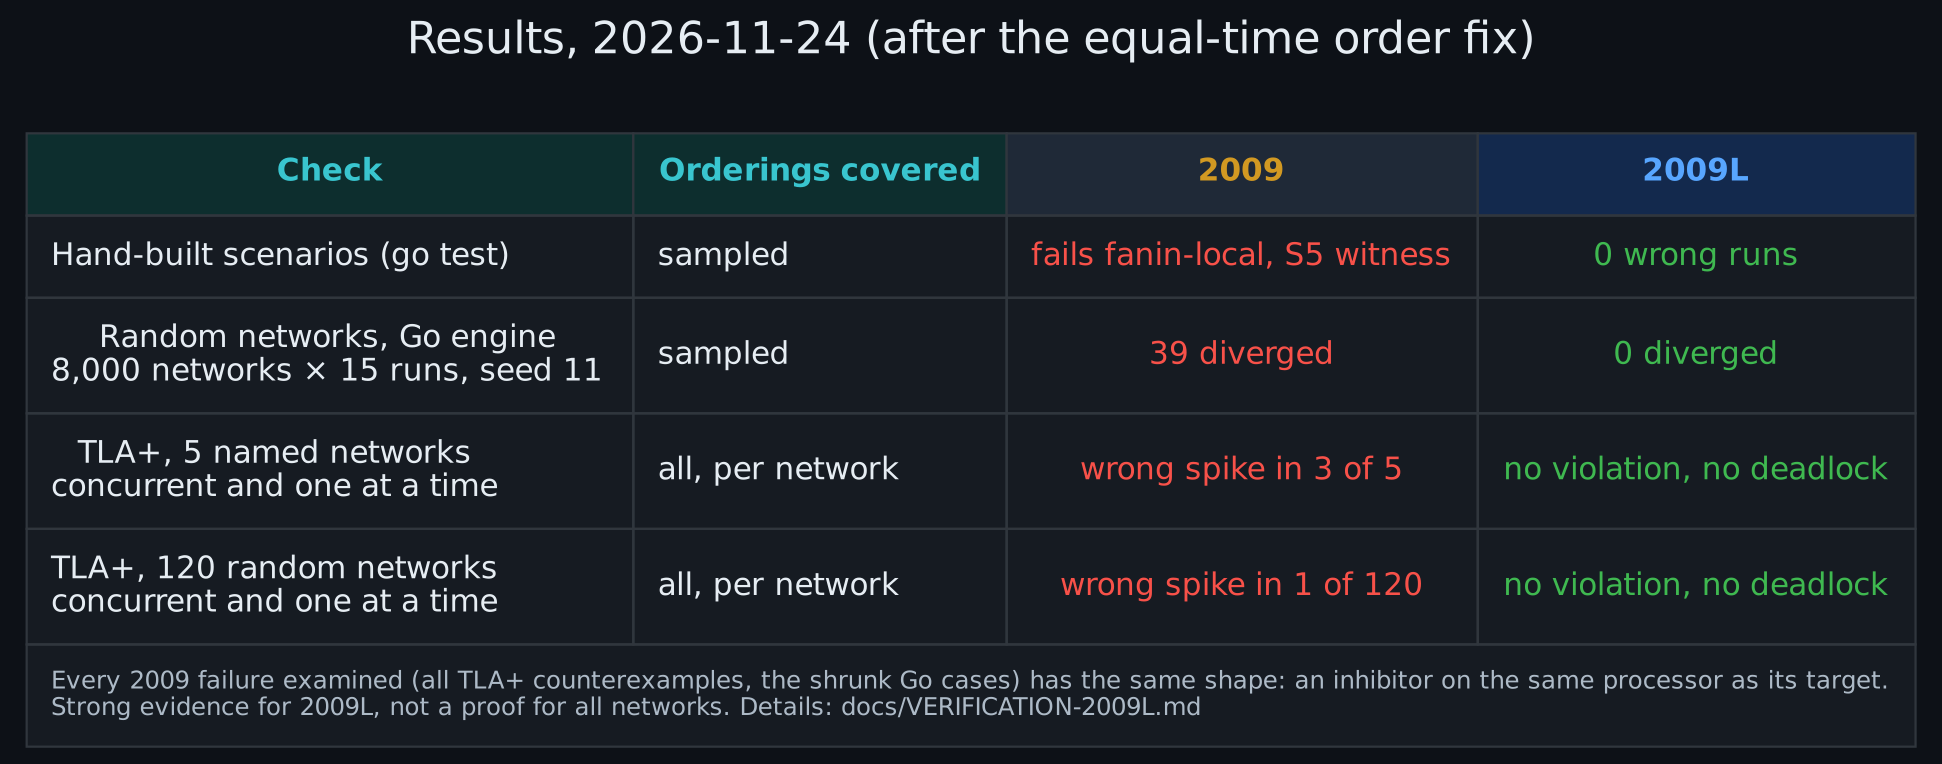
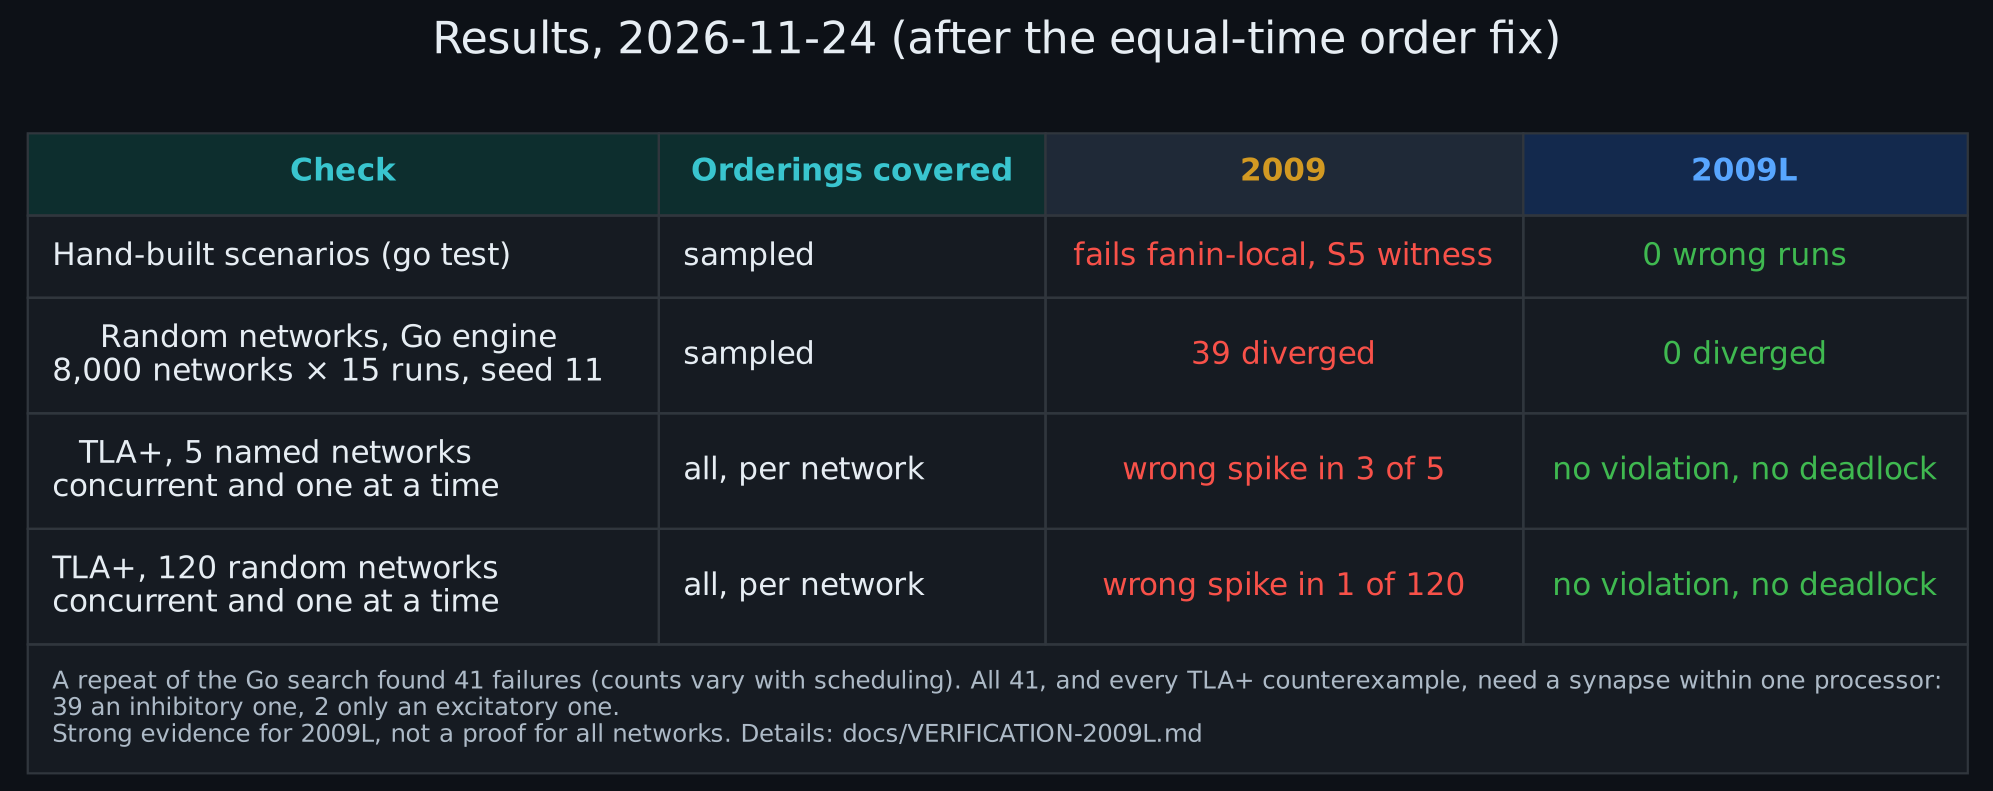
Classify every 2009 failure: the defect is any late local impact
TestFuzzClassify2009 reran the 8,000-network search under 2009 and shrank
all 41 failures. Every one needs a synapse within one processor; none is
explained by remote traffic. 39 need a local inhibitory synapse, but 2
need only a local excitatory one: the late local impact is applied after a
later-stamped event, so the neuron fires at the wrong time or twice.
2009L was correct on all 41 shrunk cases.

Updates the defect report, the verification report (new section 2.2),
the README findings and roadmap (1.1 done), and the results diagram.

Claude-Session: https://claude.ai/code/session_01HRry5APEXCQY2meDA7M2uS

diff --git a/README.md b/README.md
@@ -22,7 +22,7 @@ DAMNED (Mouraud, Puzenat and Paugam-Moisy) simulates spiking neural networks acr
 ## Findings
 
 1. **The 2006 guard is unsound.** Reproduced: it commits spikes that should have been cancelled (`cancel`: 156 of 300 runs wrong on 2026-11-24).
-2. **The 2009 guard, as reconstructed here, is also unsound.** Its computation gate checks only *peer* bounds and never this processor's own un-emitted spikes. A four-neuron counterexample (`fanin-local`: inhibitor on the same processor as its target, excitation remote) produces a spike the sequential simulation does not. Details: [`docs/DEFECT-local-straggler.md`](docs/DEFECT-local-straggler.md).
+2. **The 2009 guard, as reconstructed here, is also unsound.** Its computation gate checks only *peer* bounds and never this processor's own un-emitted spikes. A four-neuron counterexample (`fanin-local`: inhibitor on the same processor as its target, excitation remote) produces a spike the sequential simulation does not. The late local impact can also be excitatory, giving a spike at the wrong time or a duplicate: of 41 failures in a random search, 39 involved a local inhibitory synapse and 2 only a local excitatory one. Details: [`docs/DEFECT-local-straggler.md`](docs/DEFECT-local-straggler.md).
 3. **A corrected guard, `2009L`, adds the missing local bound.** It has had zero wrong runs in every test: the hand-built scenarios, a random-network search, and a TLA+ model checked over every interleaving of a set of small networks. That is strong evidence, not a proof for all networks. Details: [`docs/VERIFICATION-2009L.md`](docs/VERIFICATION-2009L.md).
 4. **The built-in soundness flag misses this class of error.** It reported 0 in every `2009` failure. The spike-train comparison against the sequential simulation caught all of them, so that comparison is the correctness criterion here.
 5. **The original TLA+ model cannot see it; a new one can.** The original model's 2009 gate has the same blind spot, its exactness invariant is the same commit-time check as the flag, and it has no synaptic weights ([defect report, section 7](docs/DEFECT-local-straggler.md#7-consequences-for-the-tla-model)). A new model with real neurons, in [`formal-verification/weighted/`](formal-verification/weighted/), finds the 2009 failure, including when each processor computes one event at a time as the 2009 paper describes, and finds no violation under `2009L`.
@@ -287,7 +287,7 @@ Ordered so that each phase rests on the one before it: correctness first, becaus
 
 | # | Step | Why | Status |
 |---|---|---|---|
-| 1.1 | Classify all 39 `2009` failures from the long random search by shape | The claim that every failure is a local inhibitor rests so far on the cases examined (all TLA+ counterexamples, the shrunk Go cases), not on all 39 | Next |
+| 1.1 | Classify every `2009` failure from the long random search by shape | The claim that every failure is a local inhibitor rested only on the cases examined | **Done 2026-11-24:** all 41 need a local synapse; 39 a local inhibitory one, 2 only a local excitatory one. The defect is any late local impact ([report, section 2.2](docs/VERIFICATION-2009L.md#22-classifying-every-2009-failure)) |
 | 1.2 | Implement Algorithms 2 and 3 of the 2009 paper literally, as a fourth guard, and run every check against it | Settles whether the defect is in the published algorithm or only in this reconstruction ([verification report, section 1](docs/VERIFICATION-2009L.md#1-the-2009-paper)) | Next |
 | 1.3 | Extend the TLA+ model: stimuli arriving over time from Pr0, channels larger than 3 messages, liveness under fairness | Removes the three main simplifications behind the current TLC results | Open |
 | 1.4 | Prove `2009L` sound for all networks | Every result so far covers specific networks; a proof covers all of them. Either an inductive invariant checked with TLAPS or Apalache, or a written proof that nothing can arrive below the gate's horizon | Open |

diff --git a/docs/VERIFICATION-2009L.md b/docs/VERIFICATION-2009L.md
@@ -79,7 +79,35 @@ The same long run, repeated after the fix:
 | `2009` | 8,000 | 15 | **39** |
 | `2009L` | 8,000 | 15 | **0** |
 
-Same seed (11) and networks for both. The smallest `2009` case the shrinker returned from this run has the same shape as before: an inhibitor on the same processor as its target, with the excitation arriving at the same stamp.
+Same seed (11) and networks for both.
+
+### 2.2 Classifying every 2009 failure
+
+To check whether every `2009` failure has the local-inhibitor shape, `TestFuzzClassify2009` reran the same 8,000 networks under `2009`, shrank every failing one, and recorded which synapses the shrunk case still needs. A synapse is *local* if its source and target neurons are on the same processor. This run found 41 failures (39 in the run above; the count depends on scheduling). Full output: [`results/2026-11-24-classify-2009.txt`](results/2026-11-24-classify-2009.txt).
+
+| Synapses the shrunk failure still needs | Failures |
+|---|---|
+| A local inhibitory synapse (and nothing local and excitatory) | 31 |
+| A local inhibitory and a local excitatory synapse | 8 |
+| A local excitatory synapse only, no inhibition at all | **2** |
+| Remote synapses only | 0 |
+
+`2009L` was correct on all 41 shrunk cases (300 runs each).
+
+**The defect is broader than a local inhibitor.** Every failure needs a *local* synapse, and none is explained by remote traffic alone, which is what the `2009` peer check covers. But two need no inhibition. Case 5, shrunk:
+
+```
+P = 3; N1 (threshold 3) on processor 2
+N4 -> N1: +2, delay 2, LOCAL (N4 also on processor 2)
+N2 -> N1: +2, delay 2, remote (N2 on processor 1)
+stimuli: N4 at t = 0, N2 at t = 1
+correct: N1 gets +2 at t = 2 and +2 at t = 3, fires at t = 3
+2009:    N4's spike is forecast but not yet emitted when processor 2 integrates
+         the remote +2 (stamp 3); the local +2 (stamp 2) arrives afterwards and
+         N1 fires stamped t = 2: right neuron, wrong time
+```
+
+The other (case 15) ends with a neuron firing twice at the same stamp. Both are the same race as before: an impact from a spike forecast on the same processor arrives after a later-stamped event has been integrated. When the late impact is inhibitory the result is an extra spike; when it is excitatory, a spike at the wrong time or a duplicate. `2009L` blocks the integration in every case, because its local bound is taken over every forecast and running computation, whatever its sign.
 
 Run it yourself:
 
@@ -148,7 +176,7 @@ python3 gen.py --random 120 2026    # random networks -> random/
 
 ## What this establishes, and what it does not
 
-- **Established:** the `2009` computation gate, as reconstructed, admits wrong spikes whenever an inhibitor is local to its target and the race goes the wrong way, and TLC exhibits that on a model independent of the Go code, with or without concurrent computation. With the equal-time order fixed, `2009L` removed every failure found by every method here.
+- **Established:** the `2009` computation gate, as reconstructed, admits wrong spikes whenever a spike forecast on the target's own processor delivers its impact after a later-stamped event has been integrated (usually through a local inhibitory synapse, sometimes an excitatory one), and TLC exhibits that on a model independent of the Go code, with or without concurrent computation. With the equal-time order fixed, `2009L` removed every failure found by every method here.
 - **Not established:** that `2009L` is correct for all networks, all channel capacities, or with the environment process sending stimuli over time; or that the published algorithm has the same defect.
 
 ## Next steps

diff --git a/docs/DEFECT-local-straggler.md b/docs/DEFECT-local-straggler.md
@@ -53,6 +53,13 @@ it *before* the event at `top` — inhibition sorts first at equal stamps — an
 the target does not fire. The distributed engine integrates the excitation
 first and commits a spike that has no counterpart in ground truth.
 
+The late local impact does not have to be inhibitory. If it is excitatory, the
+engine has already integrated a later-stamped event, so the late impact is
+applied out of time order: the target can fire at the wrong stamp, or fire
+twice at one stamp. A classification of every `2009` failure in the long random
+search found 39 of 41 involve a local inhibitory synapse and 2 involve only a
+local excitatory one ([verification report, section 2.2](VERIFICATION-2009L.md#22-classifying-every-2009-failure)).
+
 The emission guard does check `localClear`, but that is the wrong place and the
 wrong quantity: it runs at commit time on events already in `pl.cm`, and by then
 the premature computation has happened.
